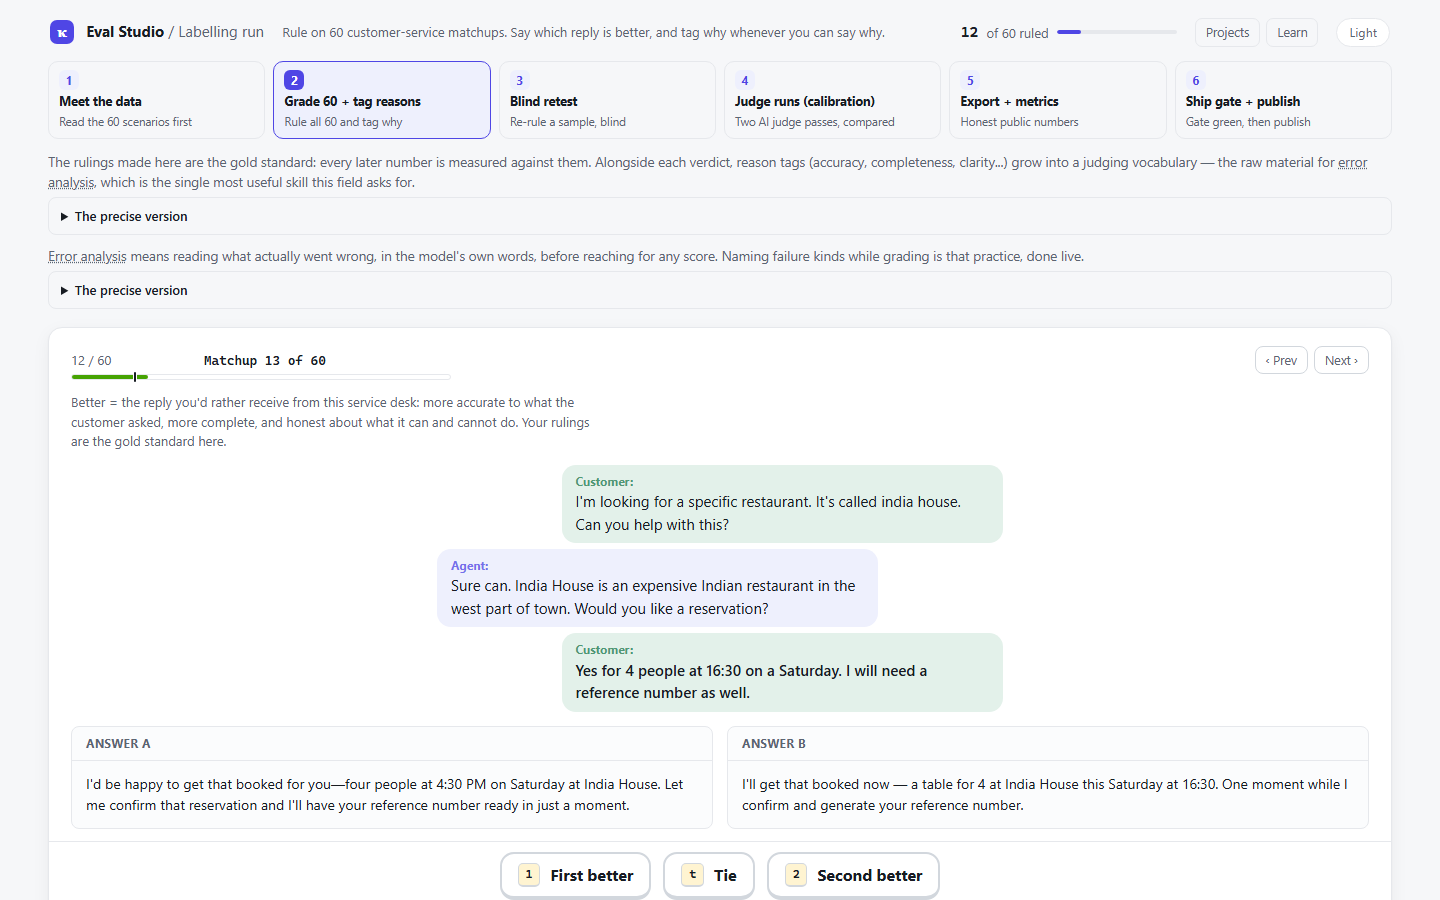
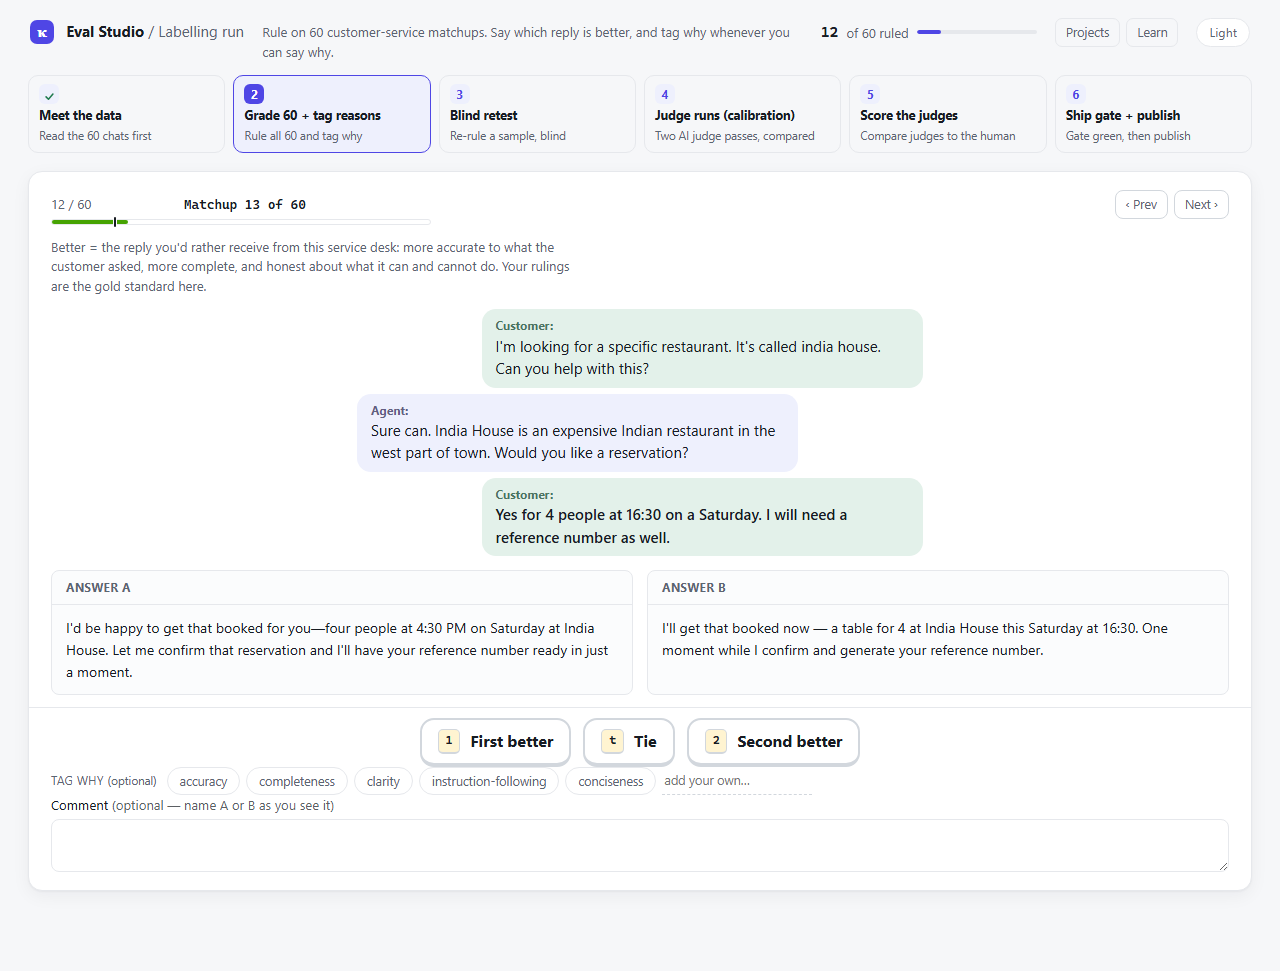
readme: 3 real-data screenshots into their experiment sections + image-existence guard - grading shot re-shot clean (no teaching layer), judge-results screen new, retest shot into Experiment 2; phase-page + learn-hub shots dropped; 59 green, leak scan clean

diff --git a/tests/test_readme_images_exist.py b/tests/test_readme_images_exist.py
@@ -1,0 +1,23 @@
+# tests/test_readme_images_exist.py
+"""Every image the README embeds must exist on disk — a deleted screenshot
+with a surviving embed ships a broken image to a public recruiter-facing
+page while every other test stays green (audit finding 2026-08-13)."""
+import re
+from pathlib import Path
+
+REPO = Path(__file__).parents[1]
+
+
+def _dangling(readme: str):
+    paths = re.findall(r"!\[[^\]]*\]\(([^)]+)\)", readme)
+    return [p for p in paths if not p.startswith("http") and not (REPO / p).exists()]
+
+
+def test_every_readme_image_exists_on_disk():
+    dangling = _dangling((REPO / "README.md").read_text(encoding="utf-8"))
+    assert not dangling, f"README embeds missing files: {dangling}"
+
+
+def test_dangling_checker_fires():
+    # positive control (house rule 2026-08-04)
+    assert _dangling("![x](docs/screenshots/does-not-exist.png)")

diff --git a/README.md b/README.md
@@ -107,6 +107,9 @@ A demonstration built for this measurement, not a system that ever served real c
 - **And the tie itself is fragile:** the blind self-check re-ruled 5 of these 15 test chats and flipped one (`mwz_SNG0360`). Under those second-pass rulings the calibrated judge scores 60% and the do-nothing judge about 47%, so one changed ruling ends the tie. Numbers this small settle nothing, in either direction.
 - **Shown, not hidden:** the tie sits in this file's opening lines, and an automated check compares this text against the data files, so the admission cannot quietly drift or disappear.
 
+![Judge results screen: three tiles, calibrated 53 percent with range 27 to 80, uncalibrated 40 percent with range 13 to 67, do-nothing judge 53 percent](docs/screenshots/eval-studio-judge-results.png)
+*The app's Judge results screen, rendered from the same committed numbers this section reports.*
+
 <p align="right">(<a href="#contents">↑ back to top</a>)</p>
 
 ---
@@ -129,6 +132,9 @@ One person is the entire gold standard here, so the repo measures that person to
   - Saying no cannot prove memory played no part, so 80% stays an upper bound on this one person's consistency.
 - **The sample was locked in advance.** The 15 re-ruled chats came from a fixed random draw saved in `data/retest_items.json` before the re-grading began, so they could not be hand-picked afterward. A match means the exact same verdict: A better, B better, or tie.
 
+![Blind retest results screen: 80 percent agreement with yourself, 55 to 93 percent interval, kappa 0.526](docs/screenshots/eval-studio-retest-results.png)
+*The self-check as the app reported it: 12 of 15 matched, the wide range stated, the chance-corrected score beside it.*
+
 <p align="right">(<a href="#contents">↑ back to top</a>)</p>
 
 ---
@@ -139,19 +145,9 @@ The rulings were made in **Eval Studio**, a local grading app I built for this p
 
 - **Blind side-by-side (pairwise) grading:** the two replies appear with model names hidden, and the grader picks **A better, B better, or tie**, plus reason tags.
 - **A blind re-grading pass** measures the grader's own consistency (Experiment 2 above), with every first-pass verdict hidden.
-- **A teaching layer** explains each phase of the eval in place.
 
-![The grading surface: six-phase board on top, the current phase's teaching in place, one real matchup below](docs/screenshots/eval-studio-grading.png)
-*The grading screen, captured mid-run on a fresh instance. Model names are hidden so a pick cannot lean on them.*
-
-![The blind retest's results screen: 80% agreement, 55–93% interval, kappa 0.526](docs/screenshots/eval-studio-retest-results.png)
-*The real self-check result: 80% match (12 of 15), with the same one-person ceiling this README states in words.*
-
-![A phase page: dated debugging history, cause-then-fix](docs/screenshots/eval-studio-phase-page.png)
-*Each phase page records what ran and what broke: dated, cause then fix, including the two live API failures fixed test-first during the judge runs.*
-
-![The Learn hub: six phases with live status for completed ones](docs/screenshots/eval-studio-learn-hub.png)
-*The six phases as they really ran. A number appears only once its phase has genuinely produced it.*
+![The grading screen mid-run: six-phase progress board on top, one real matchup below, model names hidden](docs/screenshots/eval-studio-grading.png)
+*The grading screen, captured mid-run. Model names are hidden so a pick cannot lean on them.*
 
 <p align="right">(<a href="#contents">↑ back to top</a>)</p>
 
